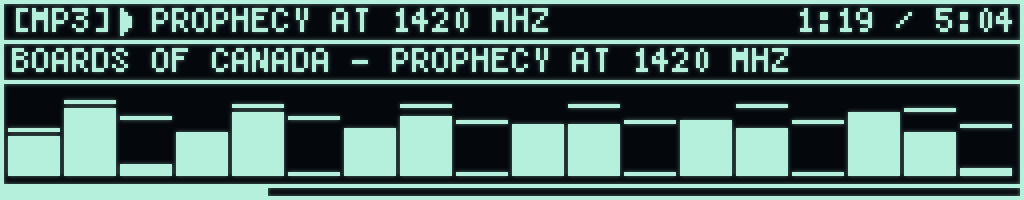
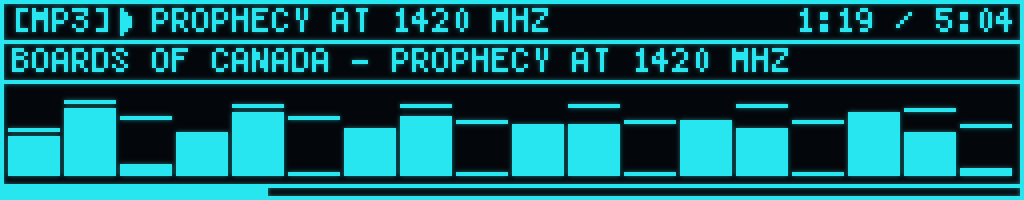
Saturate screenshots + collapse Pages section into a 2-column table
- Recoloured the page screenshots with a more saturated cyan
- README pages section is now a single 2-column markdown table with a
  short caption under each shot instead of a heading + paragraph stack

diff --git a/README.md b/README.md
@@ -19,73 +19,16 @@ Full writeup with photos: **[Building a VFD Desk HUD](https://dmello.io/building
 
 ## Pages
 
-> All screenshots are pulled live from the device over the HTTP endpoint and recoloured with the VFD's blue-green glow for legibility on the web. Pixels and layout are 1:1 with the actual display (256×50, upscaled 4×).
+Screenshots are pulled live from the device over the HTTP endpoint and recoloured for the web. Pixels and layout are 1:1 with the real 256×50 panel (upscaled 4×).
 
-### 0 · Overview
-
-![Overview page](docs/screenshots/0-overview.png)
-
-The default dash. Status bar, big clock, current song with progress bar, weather summary on the right, plus a rotating stat slot that cycles through cat weights / visits, Claude 5h-7d budgets, the device's IP, and (when active) the Prusa print progress.
-
-### 1 · Time
-
-![Time page](docs/screenshots/1-time.png)
-
-Full-screen clock with selectable face animations and numeral fonts. Press the knob to cycle through clock faces.
-
-### 2 · Weather
-
-![Weather page](docs/screenshots/2-weather.png)
-
-Big current temp, feels-like, hi/lo, plus a 4-column grid of humidity, cloud cover, sunrise/sunset, wind direction & speed, precipitation, and UV — pulled from Open-Meteo.
-
-### 3 · Now Playing
-
-![Now playing page](docs/screenshots/3-now-playing.png)
-
-Twin-rule head-unit frame around a scrolling track + artist, elapsed/total time, and a configurable audio visualizer driven by the song's progress. Spotify metadata comes in over MQTT.
-
-### 4 · Matrix Rain
-
-![Matrix page](docs/screenshots/4-matrix.png)
-
-Katakana raindrops. Press the knob here and up/down rotate brightness while a progress bar shows the current level. 15-second timeout returns the knob to page-cycling.
-
-### 5 · Cats
-
-![Cats page](docs/screenshots/5-cats.png)
-
-Telemetry for Ada and Tux from a custom cat-scale rig — weight, today's visits, average per day, and last seen.
-
-### 6 · Tamagotchi
-
-![Tamagotchi page](docs/screenshots/6-tamagotchi.png)
-
-A little cat lives on a floor with some furniture, picks weighted-random activities (nap, eat, scratch, play, hairball, chandelier-swinging, …), walks to the right spot, and does the thing.
-
-### 7 · Claude
-
-![Claude usage page](docs/screenshots/7-claude.png)
-
-Bars for the 5-hour and 7-day API budgets with countdown to reset, plus a four-cell stats strip — current Sonnet %, extra-usage flag, hourly burn rate ("5H pace"), and time since the last MQTT push.
-
-### 8 · Portal
-
-![Portal page](docs/screenshots/8-portal.png)
-
-Aperture Laboratories logo splash on entry, then a typewriter scroll of Portal-flavoured log lines with occasional band-shift glitches and pixel noise.
-
-### 9 · Prusa
-
-![Prusa page](docs/screenshots/9-prusa.png)
-
-OctoPrint job + temperatures via REST. Header with state and a live throbber, thin full-width progress bar, then three columns (time / filament / temps) under a divider. Falls back to a centred "waiting for print" tooltip after 30 min of idle, persisted across reboots.
-
-### 10 · Watch
-
-![Watch page](docs/screenshots/10-watch.png)
-
-My default work page — chunky `logisoso22` clock + date on the left, compact Claude usage on the right (5h + 7d bars, Sonnet %, extra-usage flag, countdown to the next reset).
+|  |  |
+| :--- | :--- |
+| ![](docs/screenshots/0-overview.png)<br>**0 · Overview** — clock, song, weather, rotating stats | ![](docs/screenshots/1-time.png)<br>**1 · Time** — full-screen clock with face animations |
+| ![](docs/screenshots/2-weather.png)<br>**2 · Weather** — Open-Meteo grid + sunrise / sunset | ![](docs/screenshots/3-now-playing.png)<br>**3 · Now Playing** — Spotify metadata + audio visualizer |
+| ![](docs/screenshots/4-matrix.png)<br>**4 · Matrix** — Katakana rain; knob doubles as brightness | ![](docs/screenshots/5-cats.png)<br>**5 · Cats** — Ada & Tux scale telemetry |
+| ![](docs/screenshots/6-tamagotchi.png)<br>**6 · Tamagotchi** — procedural cat sim | ![](docs/screenshots/7-claude.png)<br>**7 · Claude** — API budget bars + 4-cell stats strip |
+| ![](docs/screenshots/8-portal.png)<br>**8 · Portal** — Aperture splash + typewriter log | ![](docs/screenshots/9-prusa.png)<br>**9 · Prusa** — OctoPrint job, filament, temps |
+| ![](docs/screenshots/10-watch.png)<br>**10 · Watch** — clock + compact Claude readout |  |
 
 ## Hardware
 
